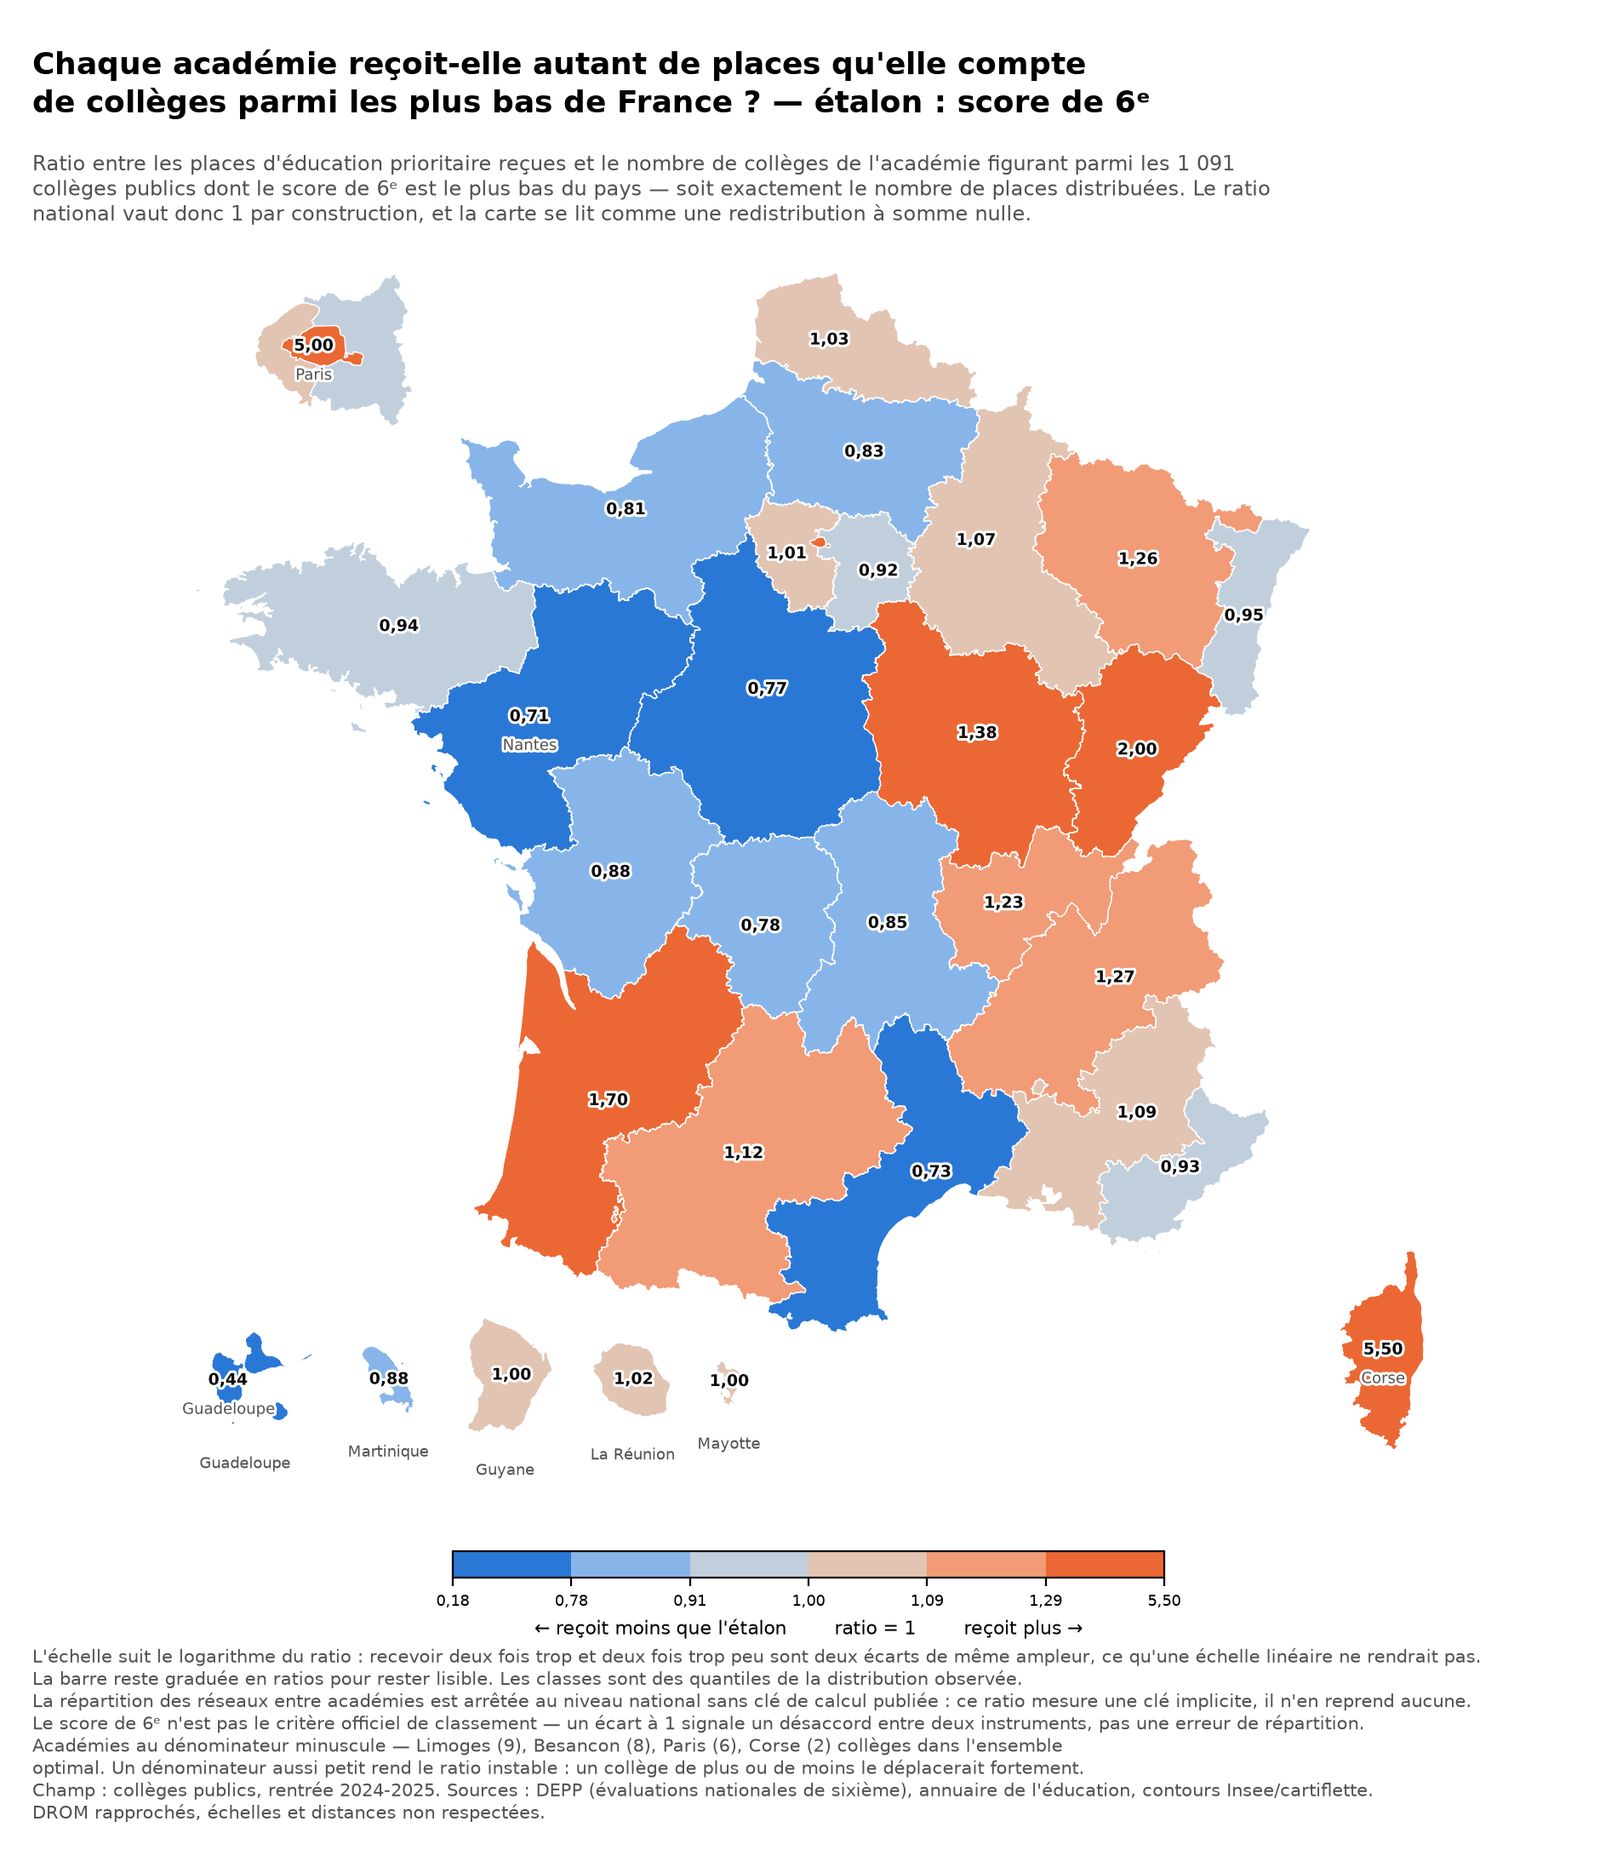
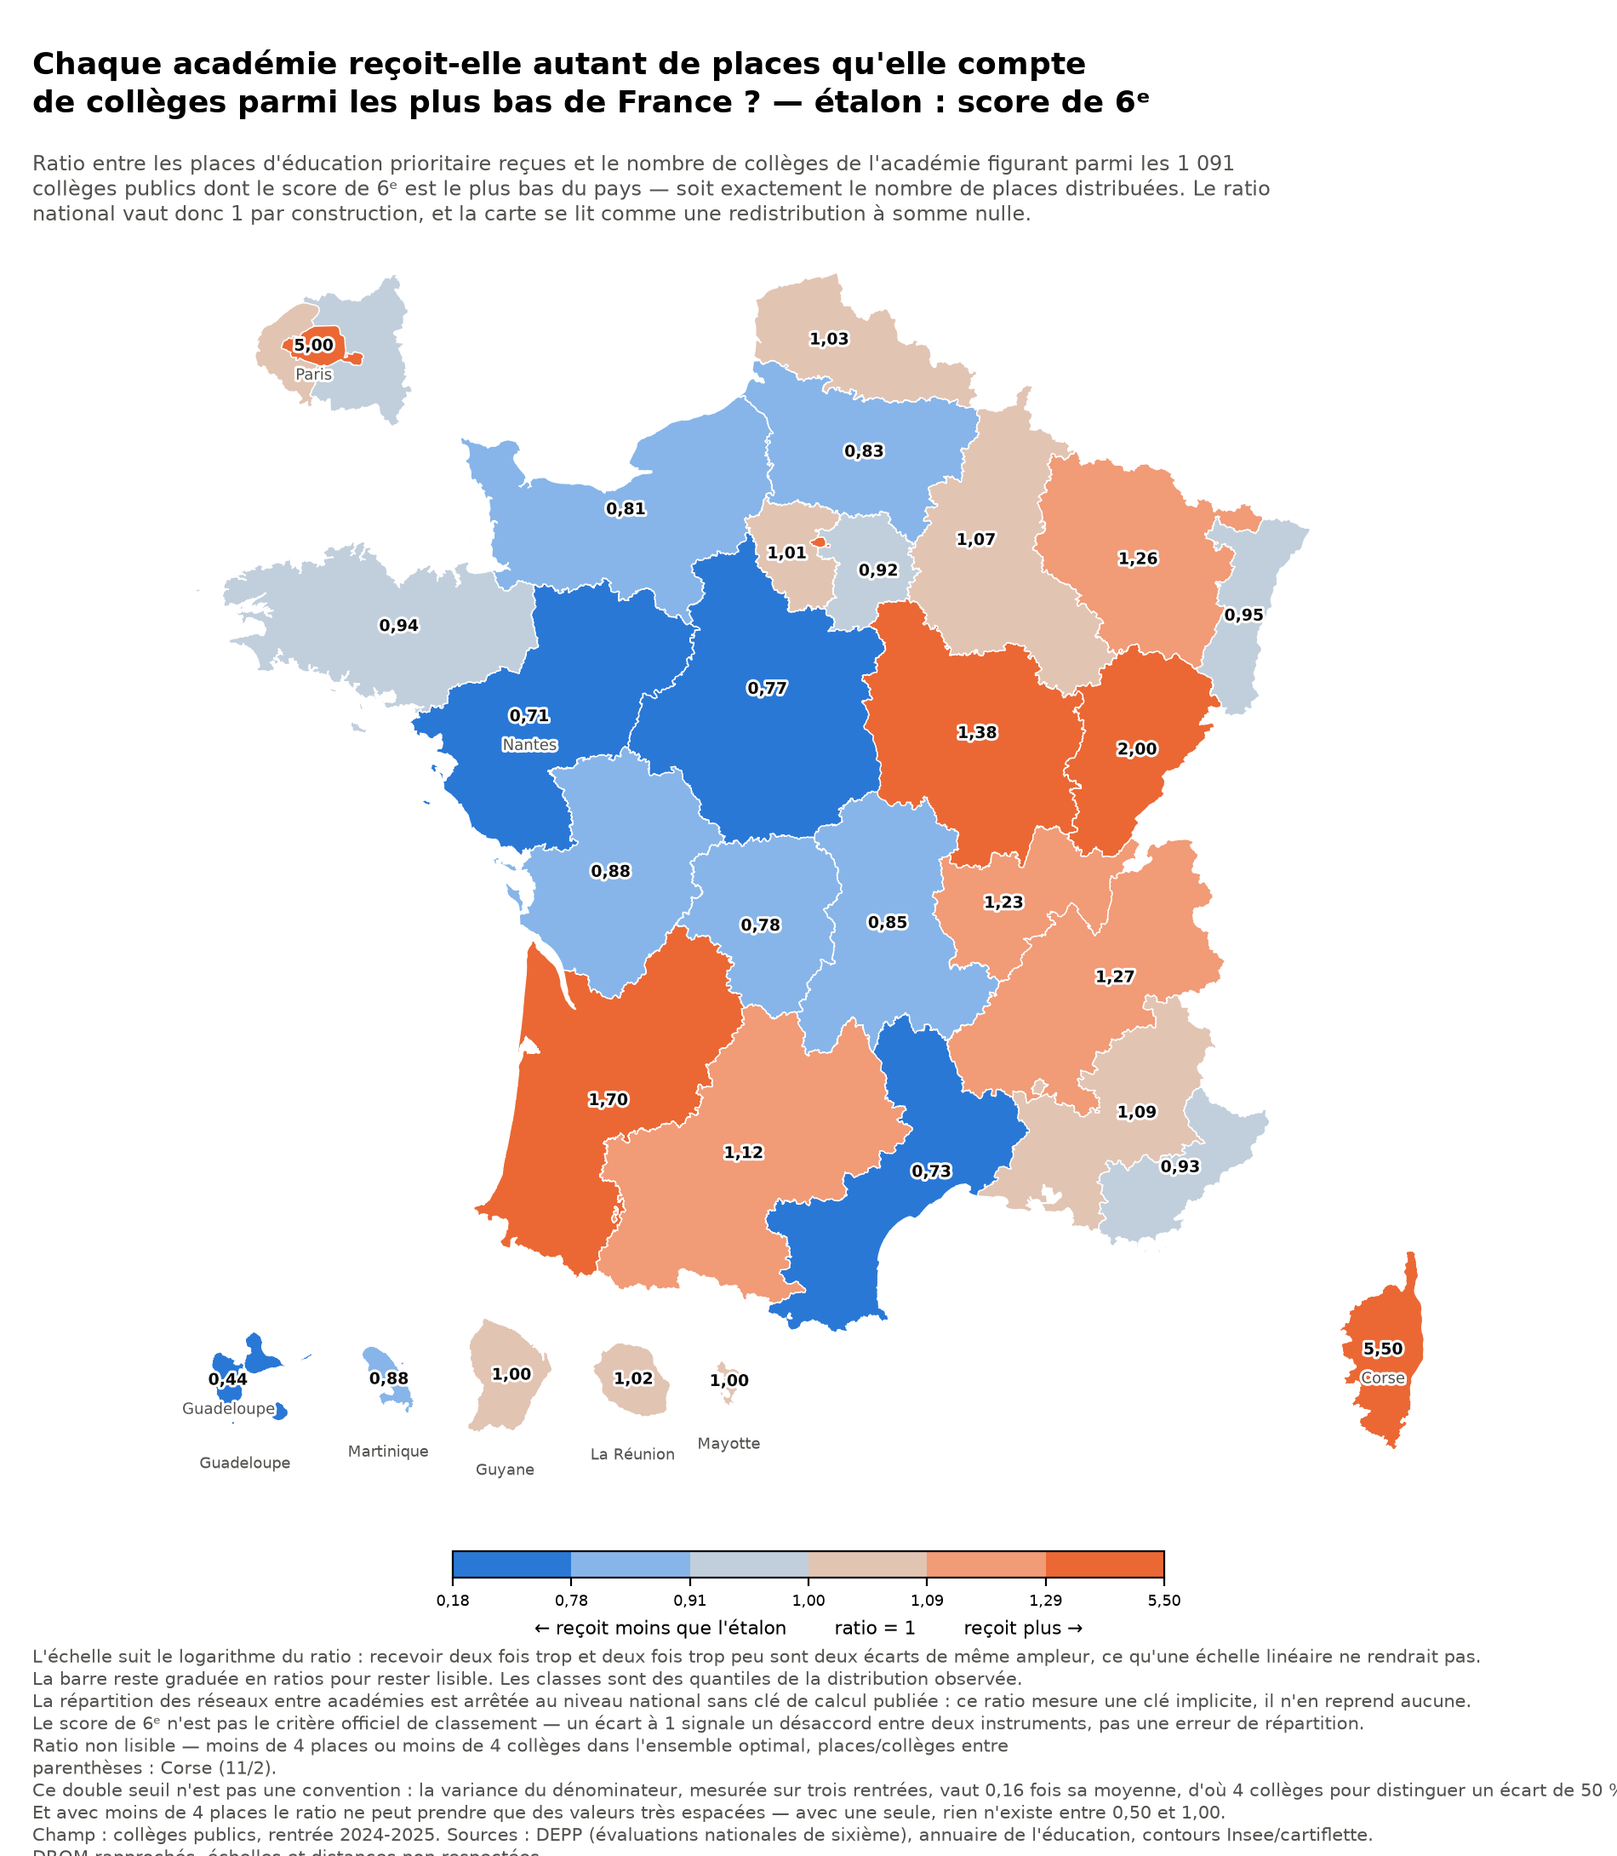
Double condition de lisibilite des ratios, etablie sur mesure et non par convention
Jusqu'ici, les figures marquaient les academies dont le DENOMINATEUR tombait
sous un seuil choisi a vue : dix sur l'education prioritaire entiere, cinq sur
REP+. Deux defauts. Le seuil etait une convention visuelle sans justification,
et il ignorait le numerateur.

LES DEUX TERMES NE POSENT PAS LE MEME PROBLEME

Le DENOMINATEUR porte l'incertitude : c'est un comptage, et un college proche
du seuil peut basculer selon l'erreur de mesure de l'etalon. En posant
Var(d) = phi * d, l'intervalle a 95 % exclut 1 des que
|log2(ratio)| > 2 racine(phi) / (racine(d) ln 2).

phi a ete MESURE et non suppose. En recalculant le denominateur sur les trois
rentrees d'IPS disponibles — la carte d'education prioritaire n'ayant pas bouge
depuis 2015 — le rapport variance/moyenne vaut 0,16, et non 1 comme le
supposerait un modele de Poisson. Celui-ci est donc six fois trop pessimiste :
la plupart des colleges sont loin du seuil et ne basculent jamais, l'ecart
median d'une rentree a l'autre etant d'UN college. La mesure melangeant
variation reelle et erreur de mesure, c'est une borne haute sur le bruit.

Avec phi = 0,16, le denominateur minimal vaut 2 pour distinguer un ecart de x2,
4 pour x1,5, 8 pour x1,33. On retient QUATRE.

Le NUMERATEUR n'est pas une variable aleatoire — le nombre de places est une
decision administrative connue exactement — donc il n'apporte aucune erreur
d'echantillonnage. Mais il QUANTIFIE le ratio, qui ne peut valoir que k/d. Avec
[…]

Changed region(s): [[0.0, 0.9358, 0.8384, 1.0]]

diff --git a/src/carte_enveloppe.py b/src/carte_enveloppe.py
@@ -82,7 +82,56 @@ DIVERGENTE = LinearSegmentedColormap.from_list(
 # academie repose sur trop peu d'observations pour etre lu comme les autres.
 # Ces academies sont nommees dans la note, sans etre retirees de la carte :
 # les masquer donnerait a croire qu'on n'a pas la donnee.
-SEUIL_FRAGILE = 10
+# A partir de combien d'etablissements un ratio est-il lisible ? La question
+# vaut pour les DEUX termes, qui ne posent pas le meme probleme.
+#
+# LE DENOMINATEUR porte l'incertitude. C'est un comptage — combien de colleges
+# de l'academie tombent parmi les n plus bas du pays — et un college proche du
+# seuil peut basculer selon l'erreur de mesure de l'etalon. En posant
+# Var(d) = phi * d, l'erreur-type de log2(ratio) vaut racine(phi) / (racine(d)
+# * ln 2), et l'intervalle a 95 % exclut 1 des que
+#
+#     |log2(ratio)| > 2 * racine(phi) / (racine(d) * ln 2)
+#
+# phi a ete MESURE plutot que suppose : en recalculant le denominateur sur les
+# trois rentrees d'IPS disponibles, la carte d'education prioritaire n'ayant
+# pas bouge, le rapport variance/moyenne vaut 0,16 — et non 1 comme le
+# supposerait un modele de Poisson. La plupart des colleges sont loin du seuil
+# et ne basculent jamais ; l'ecart median d'une rentree a l'autre est d'UN
+# college. Cette mesure melange variation reelle et erreur de mesure, c'est
+# donc une borne haute sur le bruit.
+#
+# Avec phi = 0,16, le denominateur minimal vaut 2 pour distinguer un ecart de
+# x2, 4 pour x1,5, 8 pour x1,33. On retient QUATRE, soit un ecart de 50 %.
+#
+# LE NUMERATEUR, lui, n'est pas une variable aleatoire : le nombre de places
+# d'une academie est une decision administrative, connue exactement. Il
+# n'apporte aucune erreur d'echantillonnage — mais il QUANTIFIE le ratio, qui
+# ne peut valoir que k/d. Avec une seule place, les seules valeurs entre 0,5
+# et 2 sont 0,50 et 1,00 : il n'existe rien entre les deux. Avec quatre, on
+# obtient 0,50, 0,57, 0,67, 0,80, 1,00, 1,33 et 2,00. On retient donc QUATRE
+# la aussi.
+#
+# Les deux conditions sont necessaires, et c'est la seconde qui disqualifie
+# les cas que le seul test statistique laisse passer : Dijon et Rennes
+# affichent 0,50 sur REP+, ce qui "detecte" un ecart de x2 — mais avec une
+# place le ratio ne pouvait valoir que 0,50 ou 1,00. Ce n'est pas une mesure,
+# c'est un comptage de deux colleges.
+SEUIL_PLACES = 4
+SEUIL_OPTIMAL = 4
+
+
+def ratio_lisible(places, optimal):
+    """Le ratio satisfait-il les deux conditions ? Voir le commentaire ci-dessus.
+
+    Args:
+        places: numerateur — places recues, exactement connu.
+        optimal: denominateur — colleges dans l'ensemble optimal national.
+
+    Returns:
+        Un booleen par academie, vrai quand le ratio peut etre lu.
+    """
+    return (places >= SEUIL_PLACES) & (optimal >= SEUIL_OPTIMAL)
 
 # `cartographie.annoter_drom` attend un fond indexe par code departement ; ici
 # l'index est l'academie. Les cinq academies ultramarines portant le nom de
@@ -203,20 +252,24 @@ def figure(academies: pd.DataFrame, gdf, cle: str, etalon: dict) -> None:
     places = f"{int(academies['classes'].sum()):,}".replace(",", " ")
     sujet = etalon["avec_article"][0].upper() + etalon["avec_article"][1:]
 
-    # Les academies fragiles sont CALCULEES et non ecrites en dur : elles
-    # changent d'un etalon a l'autre. Un ratio assis sur une poignee de
-    # colleges n'a pas la meme portee qu'un ratio assis sur cent cinquante.
-    petites = academies[academies["defavorises_national"] < SEUIL_FRAGILE]
+    # Les academies illisibles sont CALCULEES et non ecrites en dur : elles
+    # changent d'un etalon a l'autre.
+    lisible = ratio_lisible(academies["classes"],
+                            academies["defavorises_national"])
+    petites = academies[~lisible]
     if petites.empty:
         fragiles = ""
     else:
-        noms = ", ".join(f"{a.title()} ({int(n)})" for a, n in
-                         zip(petites["academie"], petites["defavorises_national"]))
-        # La liste s'allonge avec le nombre d'academies fragiles : sans repli,
-        # elle deborderait du cadre pour l'un des deux etalons.
+        noms = ", ".join(
+            f"{a.title()} ({int(k)}/{int(d)})" for a, k, d in
+            zip(petites["academie"], petites["classes"],
+                petites["defavorises_national"]))
+        # La liste s'allonge avec le nombre d'academies concernees : sans
+        # repli, elle deborderait du cadre pour l'un des deux etalons.
         fragiles = textwrap.fill(
-            f"Académies au dénominateur minuscule — {noms} collèges dans "
-            f"l'ensemble optimal.", width=118)
+            f"Ratio non lisible — moins de {SEUIL_PLACES} places ou moins de "
+            f"{SEUIL_OPTIMAL} collèges dans l'ensemble optimal, "
+            f"places/collèges entre parenthèses : {noms}.", width=118)
     fig.suptitle(f"Chaque académie reçoit-elle autant de places qu'elle compte\n"
                  f"de collèges parmi les plus bas de France ? "
                  f"— étalon : {etalon['libelle']}",
@@ -242,8 +295,14 @@ def figure(academies: pd.DataFrame, gdf, cle: str, etalon: dict) -> None:
              f"{sujet} n'est pas le critère officiel de classement — un écart à 1 "
              "signale un désaccord entre deux instruments, pas une erreur de "
              "répartition.\n"
-             f"{fragiles} Un dénominateur aussi petit rend le ratio instable : un "
-             "collège de plus ou de moins le déplacerait fortement.\n"
+             f"{fragiles}\n"
+             f"Ce double seuil n'est pas une convention : la variance du "
+             f"dénominateur, mesurée sur trois rentrées, vaut 0,16 fois sa "
+             f"moyenne, d'où {SEUIL_OPTIMAL} collèges pour distinguer un écart "
+             f"de 50 %.\n"
+             f"Et avec moins de {SEUIL_PLACES} places le ratio ne peut prendre "
+             f"que des valeurs très espacées — avec une seule, rien n'existe "
+             f"entre 0,50 et 1,00.\n"
              f"Champ : collèges publics, rentrée 2024-2025. Sources : "
              f"{etalon['source']}, annuaire de l'éducation, contours "
              "Insee/cartiflette.\n"

diff --git a/src/rep_plus.py b/src/rep_plus.py
@@ -53,8 +53,9 @@ import matplotlib.patheffects as pe
 from matplotlib.colors import BoundaryNorm, ListedColormap
 
 from src.analyse import charger, restreindre_au_public
-from src.carte_enveloppe import (DIVERGENTE, DROM_ACADEMIES,
-                                 contours_academiques)
+from src.carte_enveloppe import (DIVERGENTE, DROM_ACADEMIES, SEUIL_OPTIMAL,
+                                 SEUIL_PLACES, contours_academiques,
+                                 ratio_lisible)
 from src.cartographie import annoter_drom, charger_contours
 from src.etiquettes import placer_etiquettes
 from src.config import FIGURES, PROJECT_ROOT
@@ -73,12 +74,10 @@ GRIS_ABSENT = "#e3e3e3"
 BLEUS = ["#dce6f5", "#9ec4ee", "#5588cc", "#1f3b73", "#132548"]
 ORANGES = ["#fbe3d5", "#f2a888", "#eb6834", "#a8401a", "#6b280f"]
 
-# En dessous de ce nombre de colleges dans l'ensemble optimal, le ratio
-# d'enveloppe d'une academie repose sur trop peu d'observations pour etre lu
-# comme les autres. Le seuil est plus bas que celui de `carte_enveloppe` — cinq
-# contre dix — parce que l'enveloppe entiere est trois fois plus petite : le
-# retenir a dix marquerait presque toutes les academies et ne dirait plus rien.
-SEUIL_FRAGILE = 5
+# Le critere de lisibilite d'un ratio — double condition sur le numerateur ET
+# le denominateur — vient de `carte_enveloppe`, ou il est etabli et justifie.
+# Il vaut a l'identique pour les deux perimetres : c'est une propriete de
+# l'estimateur, pas du champ.
 
 # Largeur de classe de l'histogramme, par etalon : l'IPS s'etale sur une
 # centaine de points, le score de sixieme sur plusieurs centaines.
@@ -448,7 +447,7 @@ def ratios_academiques(df: pd.DataFrame, info: dict) -> pd.DataFrame:
     # aucun college dans l'ensemble optimal n'a pas un ratio infini, elle n'en
     # a pas. La carte la laisse en gris et la note la nomme.
     aca["ratio"] = aca["places"] / aca["optimal"].replace(0, np.nan)
-    aca["fragile"] = aca["optimal"] < SEUIL_FRAGILE
+    aca["fragile"] = ~ratio_lisible(aca["places"], aca["optimal"])
     return aca
 
 
@@ -551,10 +550,13 @@ def figure_ratio(df: pd.DataFrame, info: dict, aca: pd.DataFrame) -> None:
              fontsize=8.5, va="top", color=ENCRE_2)
 
     avertissement = textwrap.fill(
-        f"LIRE AVEC PRUDENCE. Sur l'éducation prioritaire entière, ce ratio "
-        f"reposait sur des dénominateurs de deux collèges au minimum ; sur REP+ "
-        f"il descend à un. {len(fragiles)} académies en comptent moins de "
-        f"{SEUIL_FRAGILE} dans l'ensemble optimal : {', '.join(fragiles)}.", 150)
+        f"LIRE AVEC PRUDENCE. Un ratio n'est lisible qu'à partir de "
+        f"{SEUIL_PLACES} places ET {SEUIL_OPTIMAL} collèges dans l'ensemble "
+        f"optimal. Le second seuil vient de la variance du dénominateur, "
+        f"mesurée à 0,16 fois sa moyenne sur trois rentrées ; le premier de la "
+        f"granularité — avec une seule place, le ratio ne peut valoir que 0,50 "
+        f"ou 1,00, rien entre les deux. {len(fragiles)} académies sur 30 n'y "
+        f"satisfont pas : {', '.join(fragiles)}.", 150)
     if sans:
         avertissement += "\n" + textwrap.fill(
             f"Sans aucun collège dans l'ensemble optimal, donc sans ratio défini "
@@ -606,8 +608,10 @@ def figure_nuage_ratios(ratios: dict) -> None:
     t = t.dropna(subset=[ra, rb]).copy()
 
     t["change_de_cote"] = (t[ra] > 1) != (t[rb] > 1)
-    t["fragile"] = t[f"optimal_{a}"].lt(SEUIL_FRAGILE) | t[f"optimal_{b}"].lt(
-        SEUIL_FRAGILE)
+    # Marque des que le ratio est illisible pour L'UN des deux etalons : il ne
+    # se compare pas a l'autre si l'un des deux est du bruit.
+    t["fragile"] = ~(ratio_lisible(t[f"places_{a}"], t[f"optimal_{a}"])
+                     & ratio_lisible(t[f"places_{b}"], t[f"optimal_{b}"]))
 
     x, y = np.log2(t[ra].to_numpy()), np.log2(t[rb].to_numpy())
     places = t[f"places_{a}"].to_numpy()
@@ -726,11 +730,14 @@ def figure_nuage_ratios(ratios: dict) -> None:
             152)
 
     fig.text(0.02, 0.168, note + "\n"
-             f"(*) ratio reposant sur moins de {SEUIL_FRAGILE} collèges dans "
-             f"l'ensemble optimal, pour au moins un des deux étalons. Sur REP+ "
-             f"ce dénominateur descend à un : Paris reçoit\n"
-             f"4 places pour 1 collège, Bordeaux 3 pour 1. La position de ces "
-             f"points tient à une poignée d'établissements.\n"
+             f"(*) ratio non lisible pour au moins un des deux étalons : moins "
+             f"de {SEUIL_PLACES} places, ou moins de {SEUIL_OPTIMAL} collèges "
+             f"dans l'ensemble optimal. Le second seuil vient de la variance du\n"
+             f"dénominateur, mesurée à 0,16 fois sa moyenne sur trois rentrées ; "
+             f"le premier de la granularité. Sur REP+ le dénominateur descend à "
+             f"un — Paris reçoit 4 places pour 1 collège,\n"
+             f"Bordeaux 3 pour 1 — et le ratio ne peut alors valoir que 0,50 ou "
+             f"1,00 : ce n'est pas une mesure, c'est un comptage.\n"
              "Les deux échelles sont logarithmiques, le ratio étant "
              "multiplicatif : recevoir deux fois trop et deux fois trop peu sont "
              "deux écarts de même ampleur. Les graduations\n"

diff --git a/src/ratios_enveloppe.py b/src/ratios_enveloppe.py
@@ -55,6 +55,7 @@ import numpy as np
 import pandas as pd
 
 from src.config import FIGURES, PROJECT_ROOT
+from src.carte_enveloppe import SEUIL_OPTIMAL, SEUIL_PLACES, ratio_lisible
 from src.etalons import ETALONS, fichier_academies
 from src.etiquettes import placer_etiquettes
 
@@ -67,9 +68,9 @@ ENCRE, ENCRE_2, MUET, GRILLE = "#0b0b0b", "#52514e", "#898781", "#e1e0d9"
 # (0,44 a 5,50) en restant des valeurs qu'un lecteur interprete sans effort.
 GRADUATIONS = [0.5, 0.67, 0.8, 1.0, 1.25, 1.5, 2.0, 3.0, 5.0]
 
-# En dessous de ce nombre de colleges dans l'ensemble optimal, le ratio repose
-# sur trop peu d'observations : l'academie est signalee d'un asterisque.
-SEUIL_FRAGILE = 10
+# Le critere de lisibilite d'un ratio — une double condition portant sur le
+# numerateur ET le denominateur — vient de `carte_enveloppe`, ou il est etabli
+# et justifie. Les academies qui n'y satisfont pas portent un asterisque.
 
 # Au-dela de ce ratio, une academie sort du cadre du NUAGE. Elle y etirerait
 # l'echelle jusqu'a six et tasserait les vingt-huit autres dans un coin. Deux
@@ -122,8 +123,12 @@ def charger() -> pd.DataFrame:
 
     t["change_de_cote"] = ((t[f"ratio_enveloppe_{cles[0]}"] > 1)
                            != (t[f"ratio_enveloppe_{cles[1]}"] > 1))
-    t["fragile"] = ((t[f"defavorises_national_{cles[0]}"] < SEUIL_FRAGILE)
-                    | (t[f"defavorises_national_{cles[1]}"] < SEUIL_FRAGILE))
+    # Un point est marque des que le ratio est illisible pour L'UN des deux
+    # etalons : il ne se compare pas a l'autre si l'un des deux est du bruit.
+    t["fragile"] = ~(ratio_lisible(t[f"classes_{cles[0]}"],
+                                   t[f"defavorises_national_{cles[0]}"])
+                     & ratio_lisible(t[f"classes_{cles[1]}"],
+                                     t[f"defavorises_national_{cles[1]}"]))
     return t.sort_values(f"ratio_enveloppe_{cles[0]}", ascending=False)
 
 
@@ -376,9 +381,12 @@ def figure_nuage(t: pd.DataFrame) -> None:
              "deux écarts de même ampleur. Les\n"
              "graduations restent des ratios, et le repère est orthonormé pour que "
              "la diagonale soit bien à 45°.\n"
-             f"(*) ratio assis sur moins de {SEUIL_FRAGILE} collèges dans "
-             "l'ensemble optimal, pour au moins un des deux étalons : un collège "
-             "de plus ou de moins le déplacerait fortement.\n"
+             f"(*) ratio non lisible pour au moins un des deux étalons — moins "
+             f"de {SEUIL_PLACES} places, ou moins de {SEUIL_OPTIMAL} collèges "
+             f"dans l'ensemble optimal. Le second seuil vient de la variance\n"
+             f"du dénominateur, mesurée à 0,16 fois sa moyenne sur trois "
+             f"rentrées ; le premier de la granularité, le ratio ne pouvant "
+             f"valoir que places divisées par collèges.\n"
              "Aucun des deux étalons n'est le critère officiel de classement : un "
              "écart à 1 mesure un désaccord entre deux instruments, pas une erreur "
              "de répartition — et\n"
